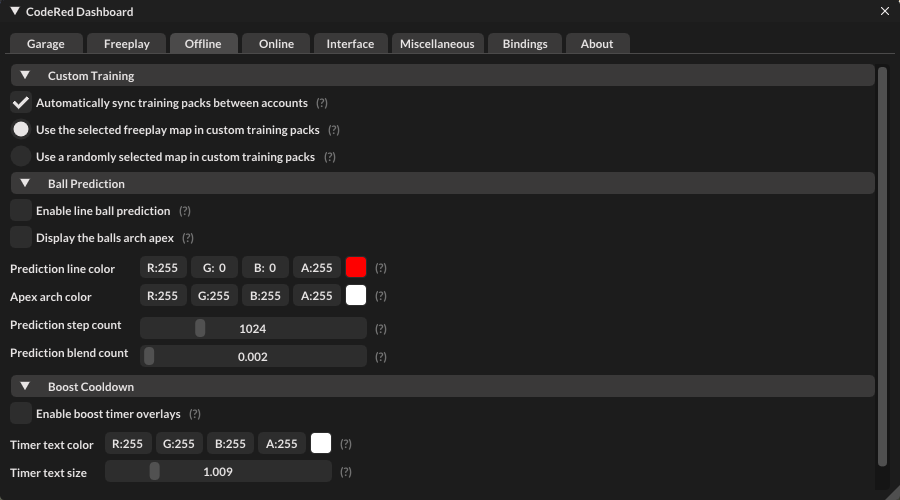
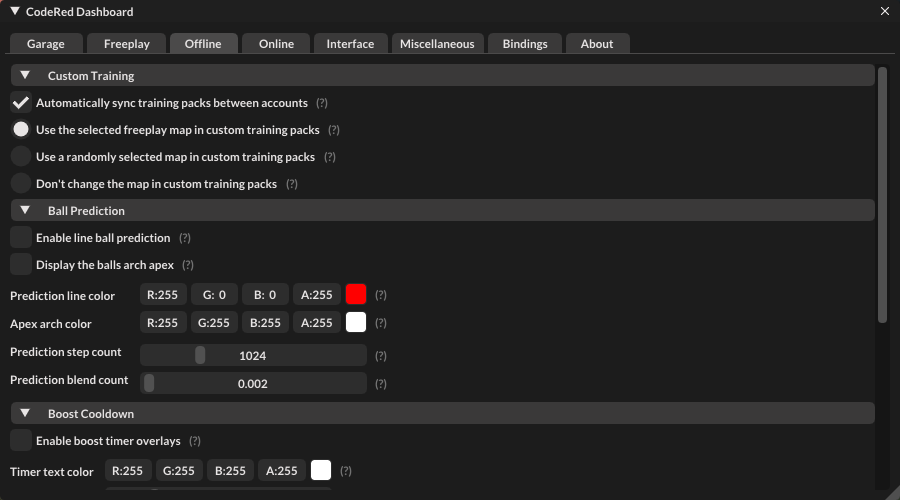
Initial Commit

diff --git a/documentation.html b/documentation.html
@@ -92,7 +92,7 @@
                     <li class="nav-item"><a class="nav-link scrollto" href="#item-6-3">Custom Titles</a></li>
                     <li class="nav-item"><a class="nav-link scrollto" href="#item-6-4">Bug Reporting</a></li>
 				    <li class="nav-item section-title mt-3"><a class="nav-link scrollto" href="#section-7"><span class="theme-icon-holder me-2"><i class="fas fa-book"></i></span>Changelog</a></li>
-				    <li class="nav-item"><a class="nav-link scrollto" href="#item-7-1">Version 1.3.0</a></li>
+				    <li class="nav-item"><a class="nav-link scrollto" href="#item-7-1">Version 1.3.1</a></li>
 			    </ul>
 		    </nav>
 	    </div>
@@ -835,6 +835,14 @@
                                         <td>Sends a message to team chat in an online game with the given arguments.</td>
                                     </tr>
                                     <tr>
+                                        <th class="theme-bg-light"><b>interface_disable_rendering</b></th>
+                                        <td>Disable all adobe scaleform rendering the game uses, press "ESC" to re-enable.</td>
+                                    </tr>
+                                    <tr>
+                                        <th class="theme-bg-light"><b>interface_enable_rendering</b></th>
+                                        <td>Re-enables adobe scaleform rendering.</td>
+                                    </tr>
+                                    <tr>
                                         <th class="theme-bg-light"><b>interface_vote_to_foreit</b></th>
                                         <td>Votes to forfiet in the current online match you are in.</td>
                                     </tr>
@@ -1561,6 +1569,10 @@
                                         <th class="theme-bg-light"><b>training_random_map &lttrue-false&gt</b></th>
                                         <td>Use randomly selecting a map for custom training packs.</td>
                                     </tr>
+                                    <tr>
+                                        <th class="theme-bg-light"><b>training_no_map &lttrue-false&gt</b></th>
+                                        <td>Don't do any changes to maps for custom training packs.</td>
+                                    </tr>
                                 </tbody>
                             </table>
                         </div>
@@ -1752,6 +1764,15 @@
 					    <h1 class="docs-heading">Changelog</h1>
 				    </header>
 				     <section class="docs-section" id="item-7-1">
+                        <h2 class="section-heading">Version 1.3.1 (February 8th 2023 2023)</h2>
+                        <h5>- Added the commands <code>interface_disable_rendering</code> and <code>interface_enable_rendering</code>, which lets you toggle scaleform rendering off and on.</h5>
+                        <h5>- Added the <code>training_no_map</code> setting, I forgot to add this option when I changed the custom training map options to radio buttons.</h5>
+                        <h5>- Added fifteen missing player titles from the last Rocket League update.</h5>
+                        <h5>- Fixed mmr not working in tournament matches due to a bug from the last update.</h5>
+                        <h5>- Fixed a possible duplicate name issue with the anonymizer and bot names.</h5>
+                        <h5>- Fixed your boost meter color resetting to white in freeplay if you changed the boost options in settings.</h5>
+                        <h5>- Changed the injection notification color from pink to light red.</h5>
+
                         <h2 class="section-heading">Version 1.3.0 (February 6th 2023 2023)</h2>
                         <h5>- Fixed a crash that could happen when interacting with certain ImGui widgets in the dashboard.</h5>
                         <h5>- Fixed the automation settings not triggering if a match didn't start due to players not joining.</h5>
